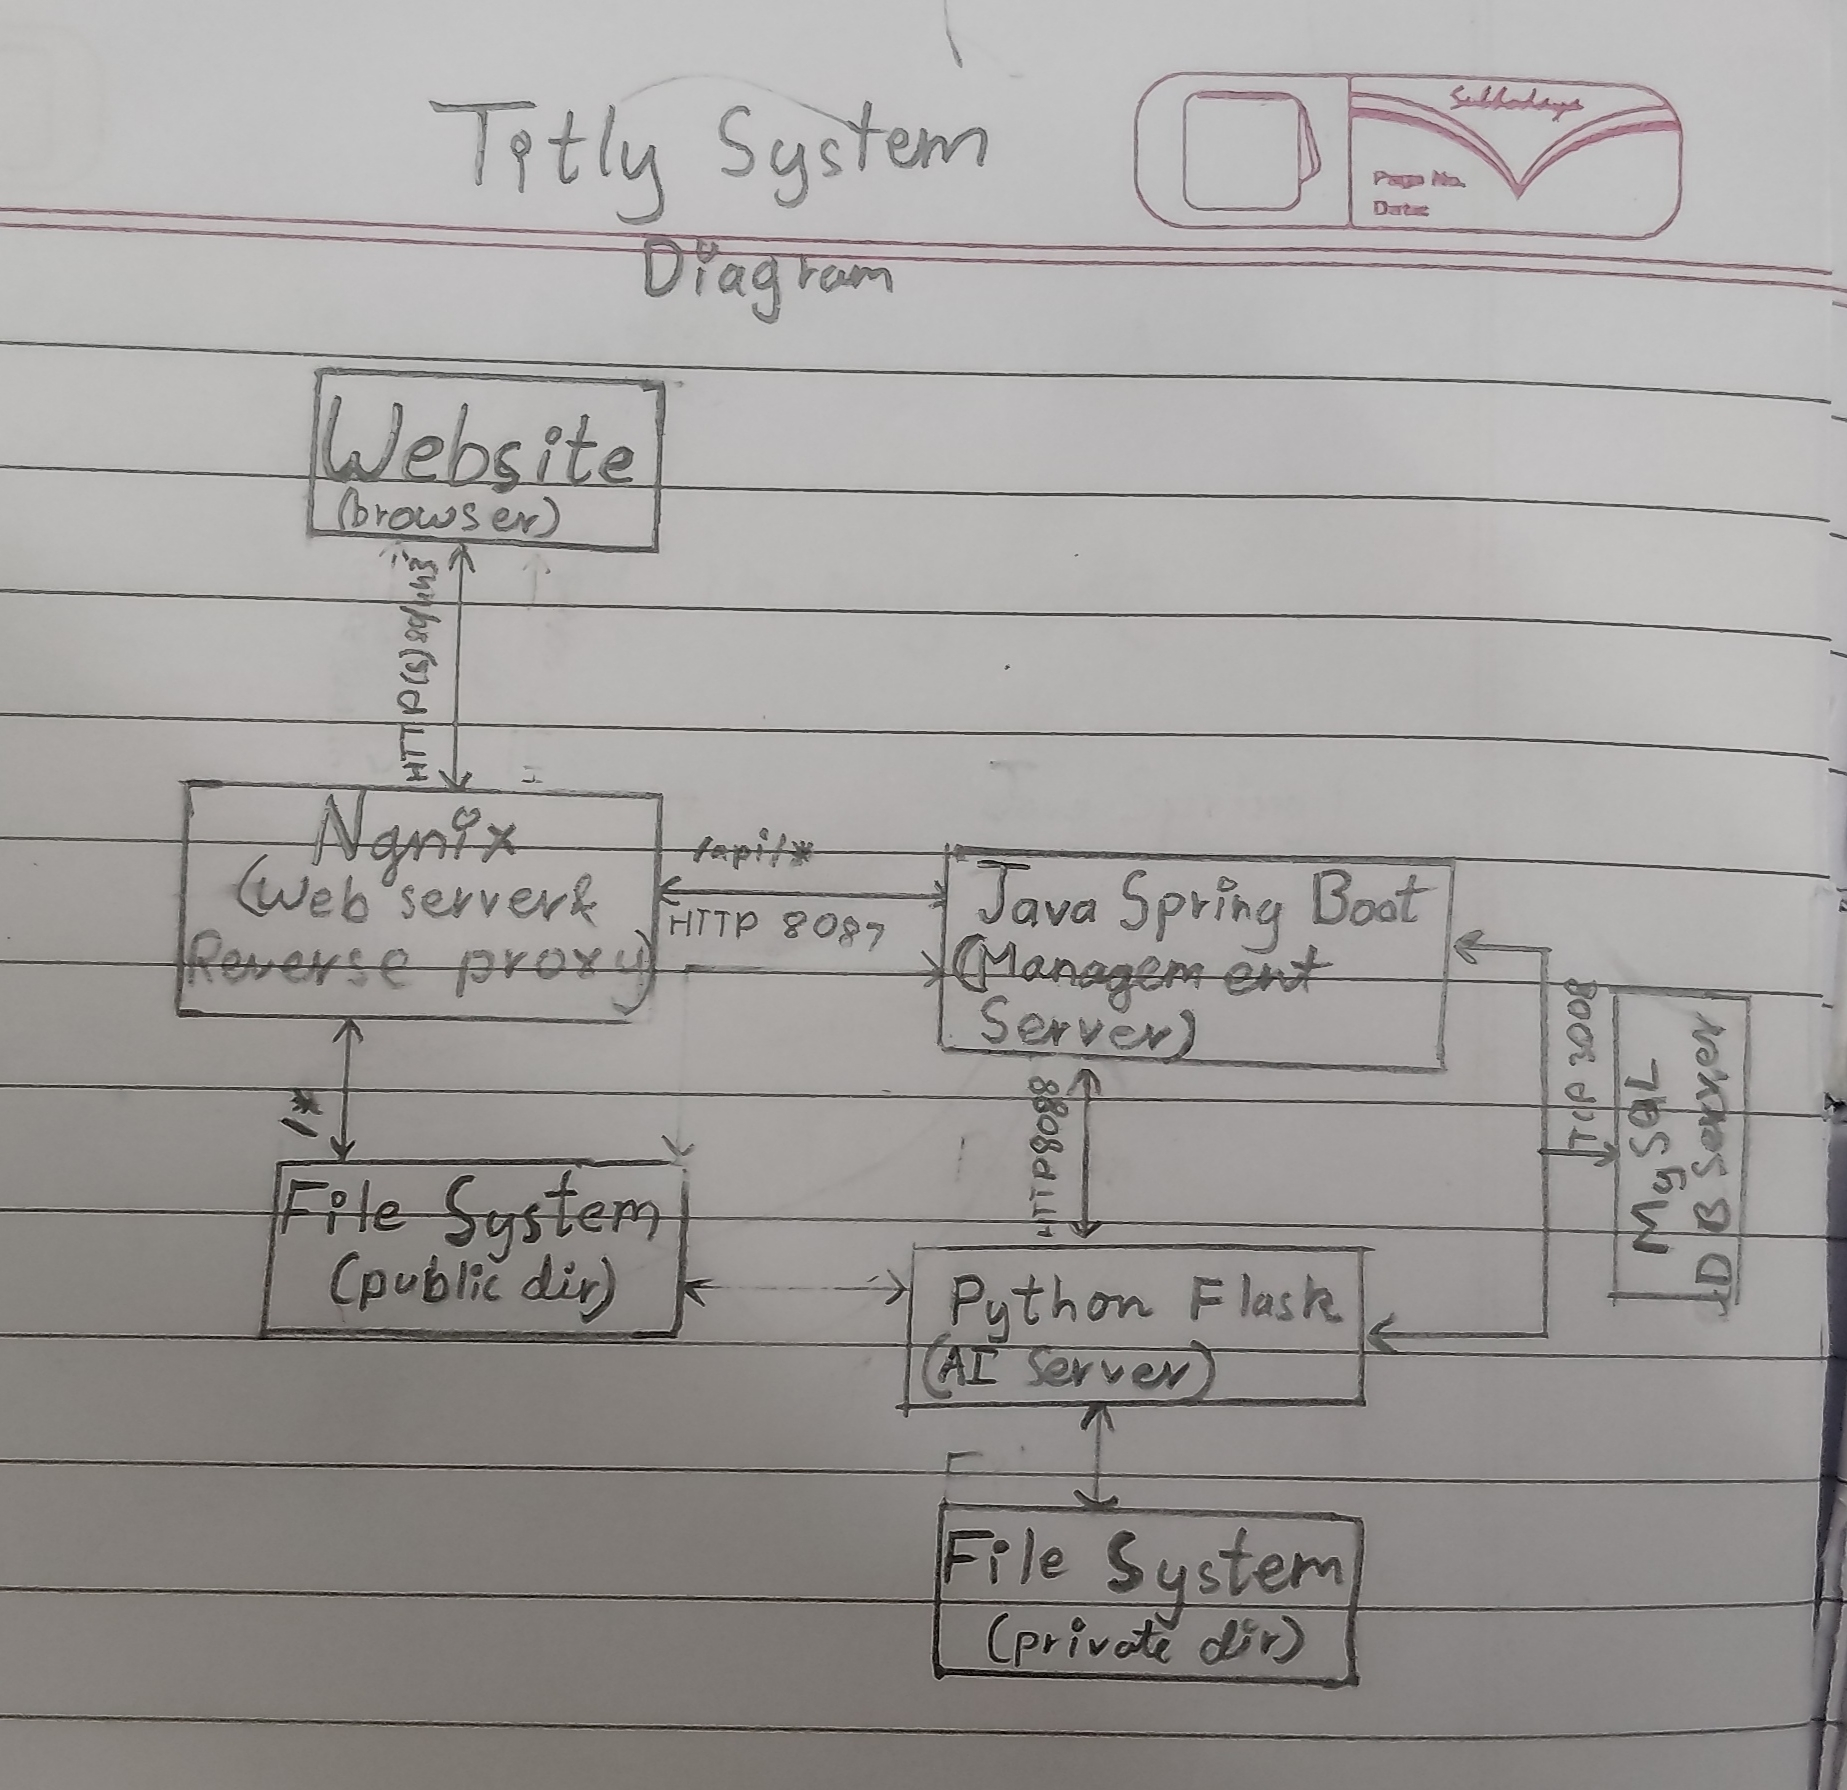
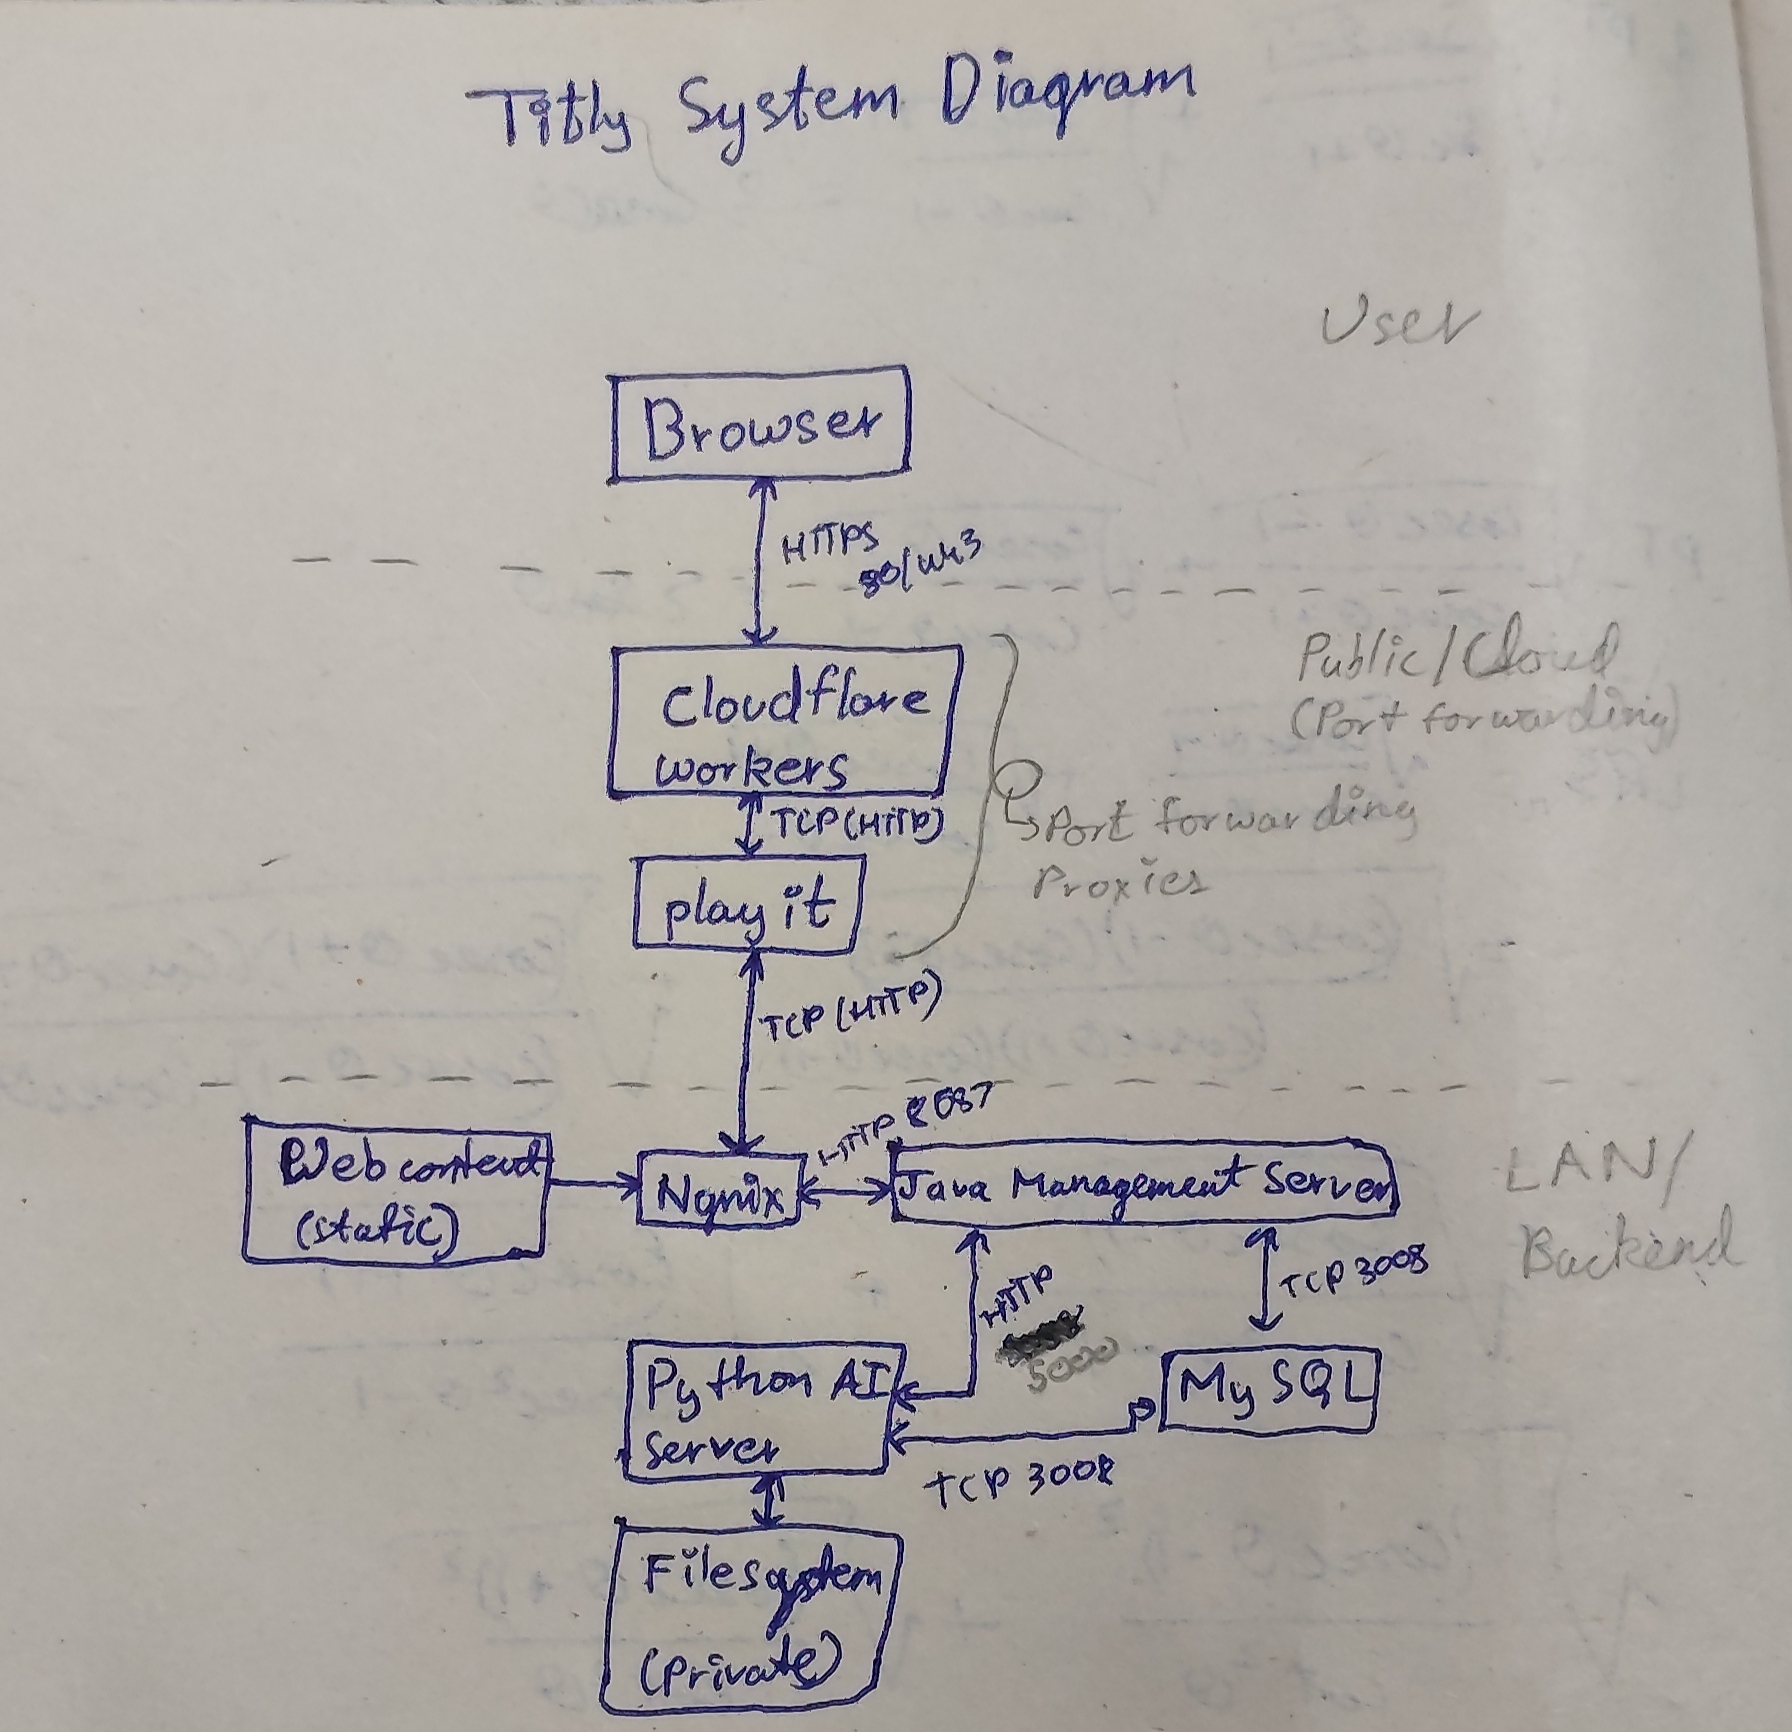
Ending the year with a project - signing off, Nikunj Doke
Ending the year with a project - signing off, Nikunj Doke

diff --git a/web_frontend/components/html/component_navbar.html b/web_frontend/components/html/component_navbar.html
@@ -1,6 +1,6 @@
 <nav class="sb-topnav navbar navbar-expand navbar-dark bg-dark">
     <!-- Navbar Brand-->
-    <a class="navbar-brand ps-3">Vidyātantrapāṭha</a>
+    <a class="navbar-brand ps-3">TITLY</a>
     <!-- Sidebar Toggle-->
     <button class="btn btn-link btn-sm order-1 order-lg-0 me-4 me-lg-0" id="sidebarToggle" href="#!"><i class="fas fa-bars"></i></button>
     <!-- Navbar Search-->

diff --git a/python_flask_ai_server/flash_ai_server.py b/python_flask_ai_server/flash_ai_server.py
@@ -152,4 +152,4 @@ def upload_file():
 
 # Main function
 if __name__ == "__main__":
-    app.run(debug=True, host="0.0.0.0")
+    app.run(host="0.0.0.0")

diff --git a/README.md b/README.md
@@ -1,8 +1,78 @@
 # ps6_buildathon_preboardcodes
-This GitHub repository is for the "AI BUILDATHON 2025 | CrossStack X Zigma Neural". The current repository contains the solution/code for problem statement 6, "AI Subtitle Generator for Reels"
+
+This GitHub repository is for **"AI BUILDATHON 2025 | CrossStack X Zigma Neural"**. The repository contains the solution/code for **Problem Statement 6: "AI Subtitle Generator for Reels"**.
 
 <p>
-  <img src="assets/SystemDiagram.jpg" alt="Image 1" width="200">
+  <img src="assets/SystemDiagram.jpg" alt="System Diagram" width="600">
 </p>
 
-Note: This repo may be updated frequently, so expect changes and minimal to non-existant documentation.
+## Tech Stack
+
+The stack is composed of the following components:
+
+### 1. Backend
+
+* **Nginx**
+  Acts as a web server and reverse proxy.
+
+* **Java Spring Boot Server**
+  Handles authentication, emailing, and user management.
+
+* **Python Flask Server**
+  Runs the Whisper model responsible for transcription.
+
+* **MySQL**
+  Stores user information along with transcribed files’ SHA-256 hashes and storage locations.
+
+### 2. Port Forwarding
+
+* **Playit**
+  Used to expose the Nginx port (8081) to the internet. Playit is required as a TCP tunnel because Airtel does not allow direct port forwarding.
+
+* **Cloudflare Workers**
+  Runs a lightweight script to provide a cleaner, user-friendly URL for the Playit tunnel. No processing is performed here.
+
+### 3. Frontend
+
+The frontend uses a combination of **HTML, CSS, and JavaScript** to provide an interactive user interface. Libraries such as **Bootstrap 5** and **DataTables** are used.
+
+## Building & Running (Linux)
+
+### 1. Install requirements
+
+```bash
+sudo apt install python3 openjdk-21-jdk python3-pip maven
+```
+
+```bash
+cd python_flask_ai_server/ && pip install -r requirements.txt
+```
+
+### 2. Build the Java application
+
+```bash
+cd java_springboot_management_server && mvn clean package
+```
+
+### 3. Deploy frontend files
+
+Deploy the contents of the `web_frontend` directory to a web server.
+
+### 4. Run the Python server
+
+```bash
+cd python_flask_ai_server && python3 flask_ai_server.py
+```
+
+### 5. Run the Java server
+
+Run the generated Spring Boot JAR file from the `target` directory.
+
+## Links
+
+* **Website:** [https://titly.mwnjele.workers.dev/](https://titly.mwnjele.workers.dev/)
+* **Project Video:** [https://drive.google.com/file/d/1N70eKwV5mYE1XKIC0iCfB5kNZxZE95yI/view?usp=sharing](https://drive.google.com/file/d/1N70eKwV5mYE1XKIC0iCfB5kNZxZE95yI/view?usp=sharing)
+
+## Notes
+
+This repository may be updated frequently. Expect changes and minimal to no documentation at times.
